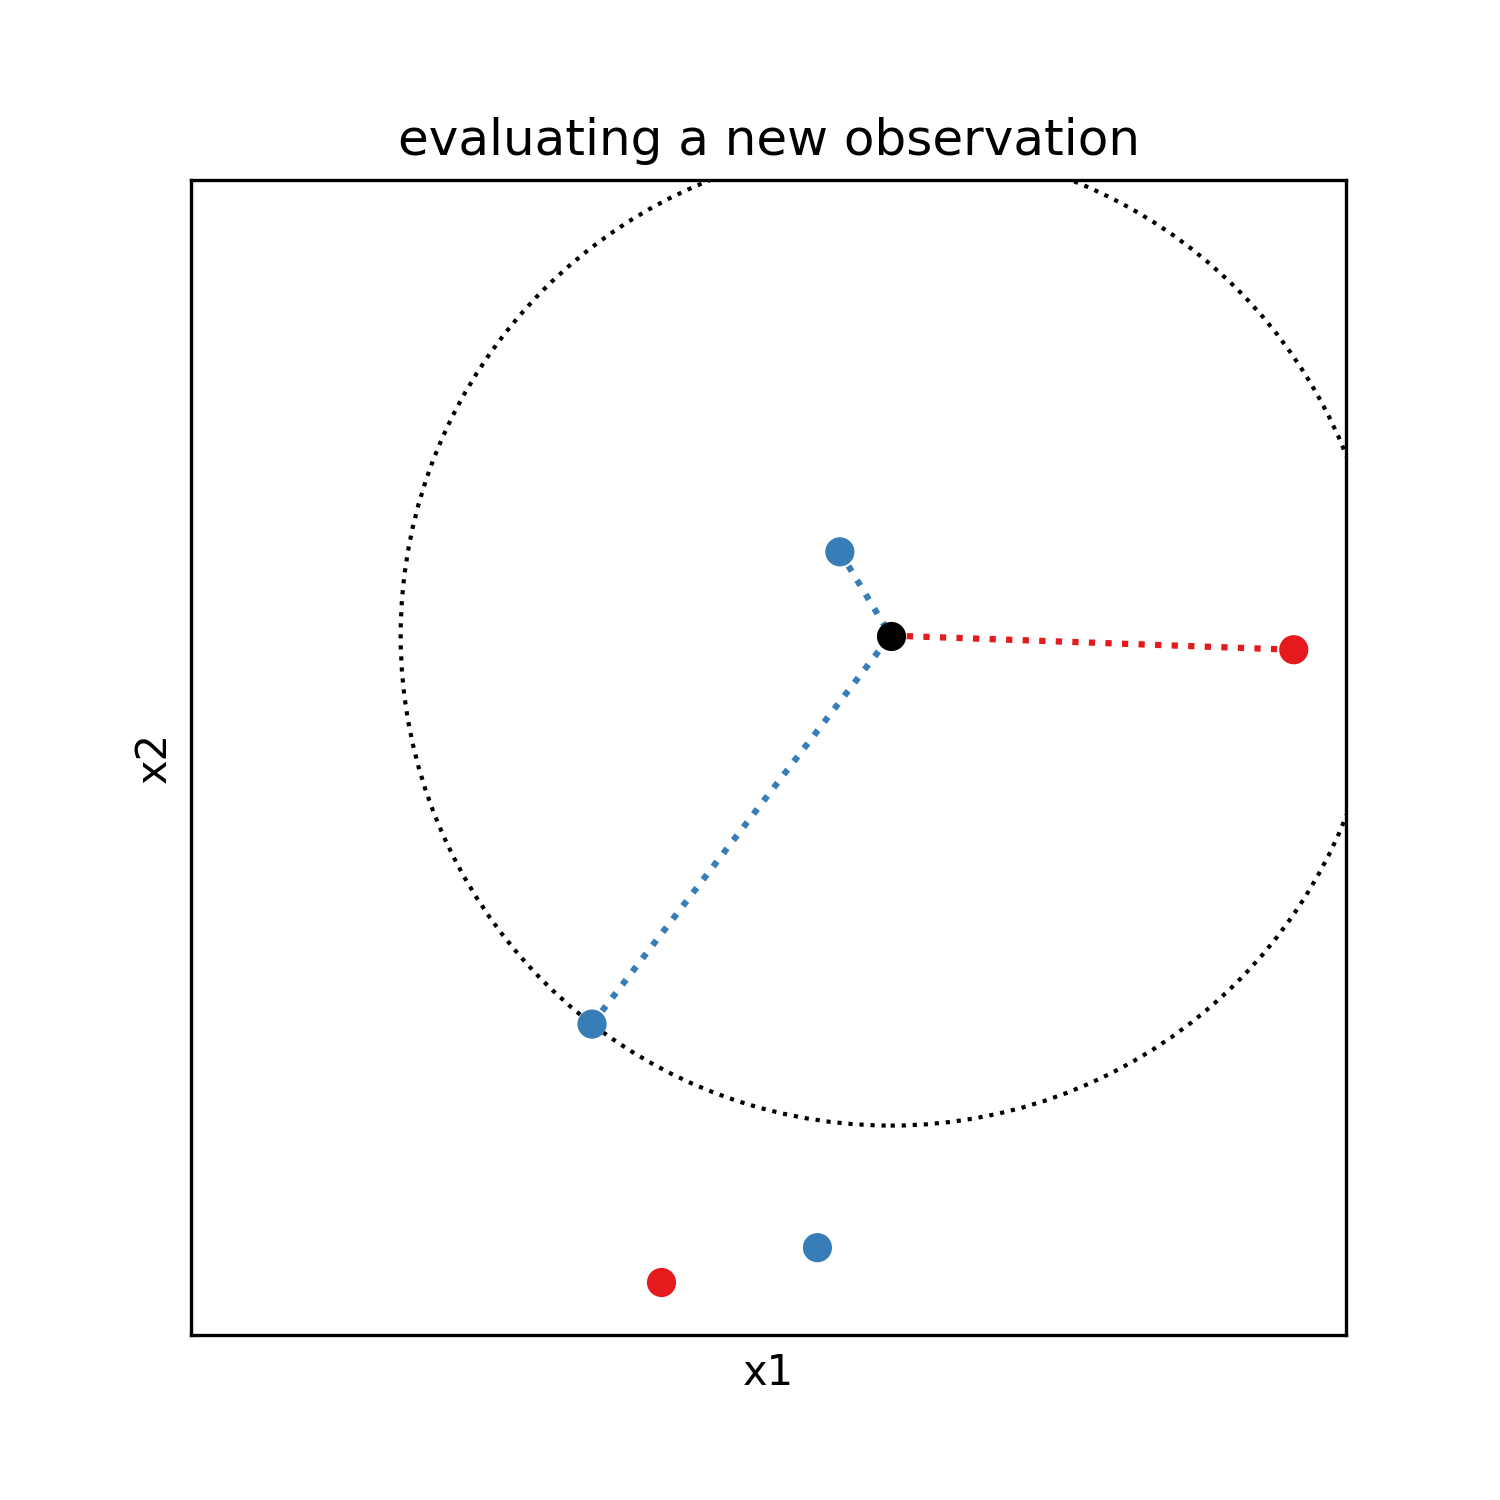
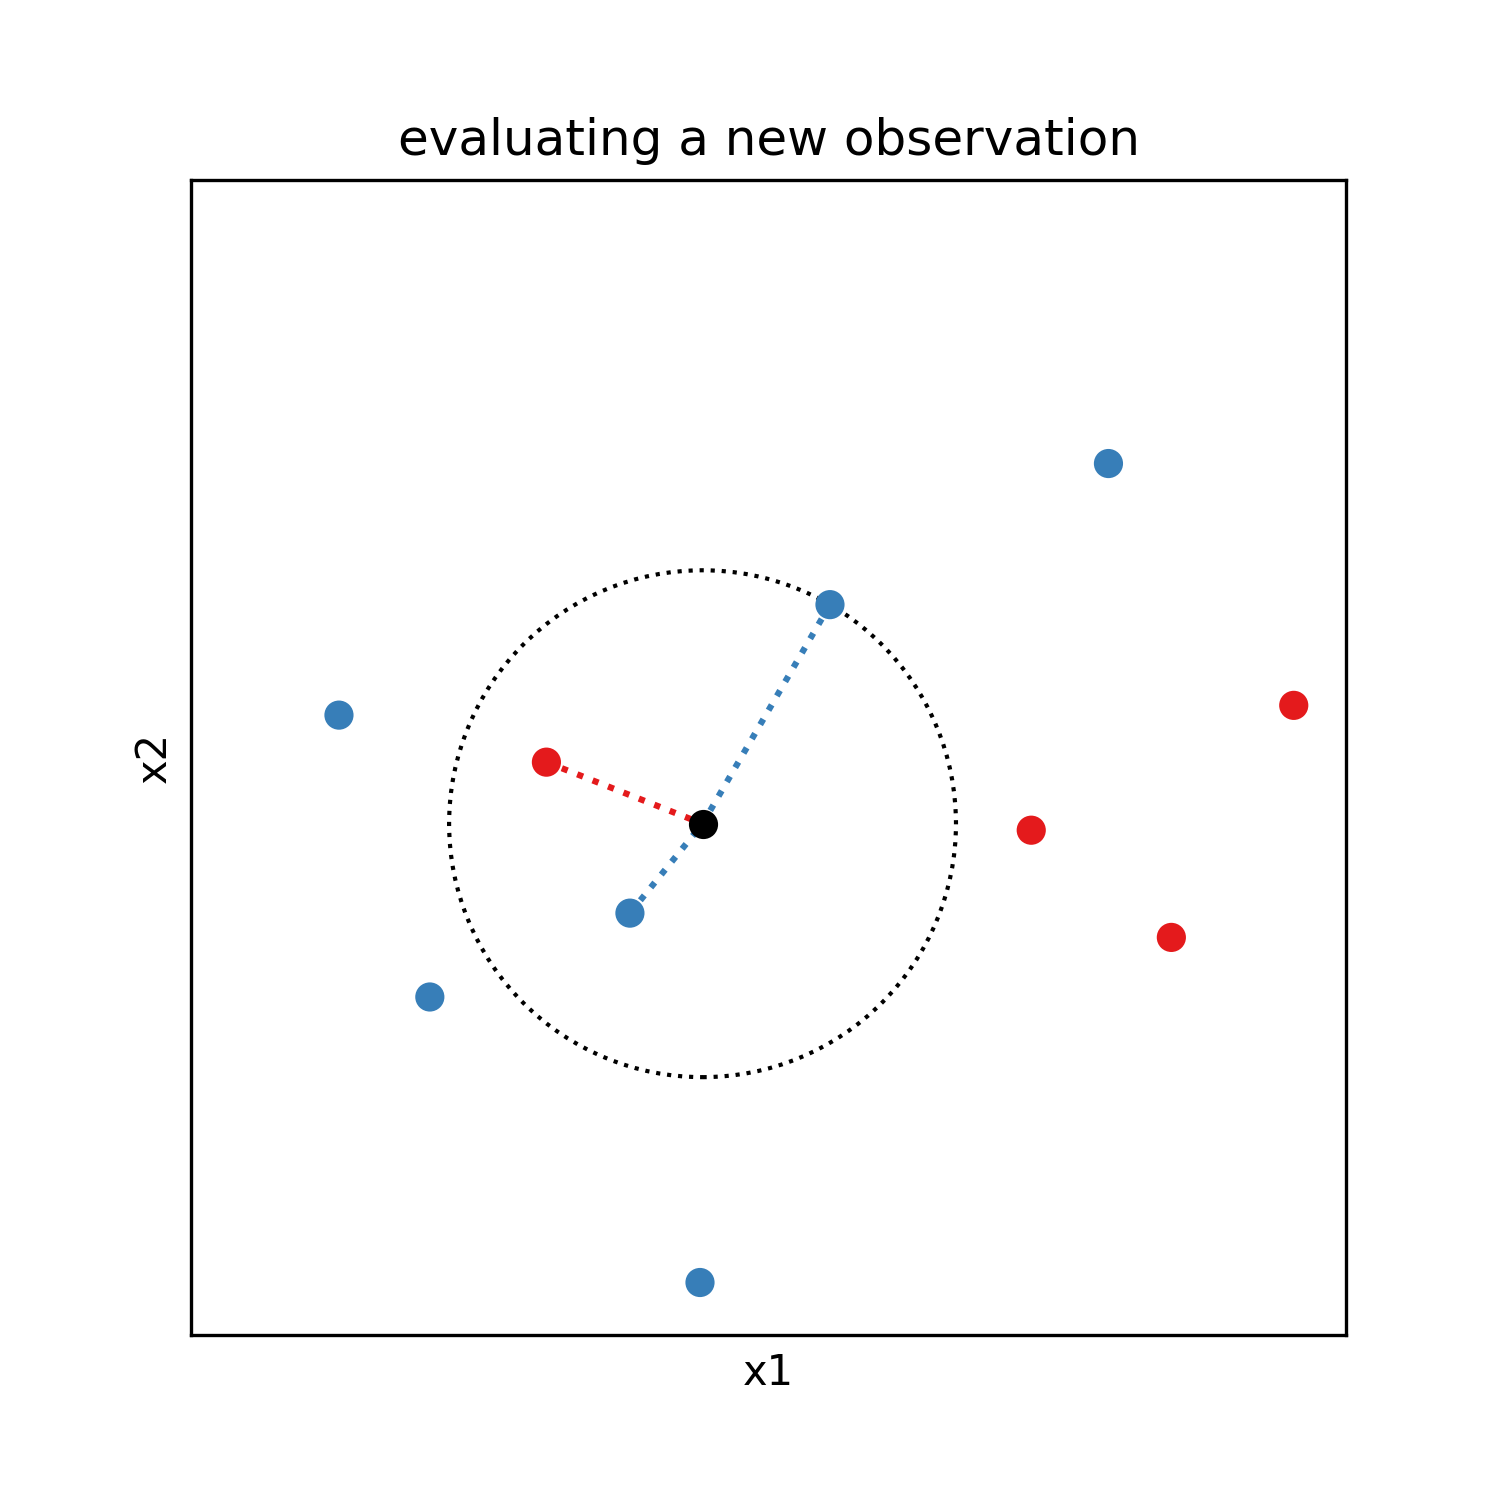
modified k nearets neighbours and draft

diff --git a/introduction_to_machine_learning/images/k_nearest_neighbours/k_nearest_neighbours.py b/introduction_to_machine_learning/images/k_nearest_neighbours/k_nearest_neighbours.py
@@ -21,7 +21,7 @@ def model(X: np.ndarray, Xobs: np.ndarray, Yobs: np.ndarray, k: int) -> np.ndarr
 # explaination
 
 k = 3
-N = 5
+N = 10
 X = np.random.normal(0., 0.3, size=(N, 2))
 X_new = np.zeros((1, 2))
 distances = np.sqrt(np.sum((X - X_new)**2, axis=1))
@@ -68,7 +68,7 @@ ax.set_zticks([])
 ax.set_xlabel("X1")
 ax.set_ylabel("X2")
 ax.set_zlabel("Y")
-ax.set_title("k nearest neighbours")
+ax.set_title("k nearest neighbours (k=5)")
 
 f.savefig(path / "k_nearest_regression.png", transparent=True, dpi=300)
 
@@ -95,8 +95,7 @@ ax.set_xticks([])
 ax.set_yticks([])
 ax.set_xlabel("X1")
 ax.set_ylabel("X2")
-ax.set_title("k nearest neighbours")
-ax.yaxis.set_label_position("right")
+ax.set_title("k nearest neighbours (k=5)")
 
 f.savefig(path / "k_nearest_classification.png", transparent=True, dpi=300)
 

diff --git a/introduction_to_machine_learning/introduction_to_machine_learning.md b/introduction_to_machine_learning/introduction_to_machine_learning.md
@@ -68,7 +68,7 @@ We start with a random parameters vector. At each step we create "childs" copies
 
 There exist a lot of variations, some more complex involving keeping the n best fit at each generation, or performing "matings" by mixing the parameter vectors of couples of individuals.
 
-This algorithm is less often used than gradient descent because it usually requires more function evaluation to obtain the same results, due to the fact that displacements are random and not guided by a "slope". However it has the adventage of handling non-diferentiable cost functions and integer parameters natively.
+This algorithm is less often used than gradient descent because it usually requires more function evaluation to obtain the same results, due to the fact that displacements are random and not guided by a "slope". However it has the advantage of handling non-diferentiable cost functions and integer parameters natively.
 
 ## Universal regressors and overfiting
 
@@ -92,13 +92,13 @@ And each classification model will be fitted on random sample from two gaussian 
 
 ### linear and polynomial regression
 
-Linear models are models of the form y = a1 \* x1 + ... + an \* xn + b. 
+Linear models are models of the form y = a1 \* x1 + ... + an \* xn + b.
 This include polynomials of any order if we set xi = x^i. Sometimes interaction terms of the form xi\*xj are also added, as well as any custom numerical feature.
-This kind of models have the adventage to have an analytical for the parameters that minimize the sum of squared errors to observations, which means training is orders of magnitude faster than other type of models. Linear models (polynomials of order one) have also the adventage to be easy to interpret.
+This kind of models have the advantage to have an analytical solution for the parameters that minimize the sum of squared errors to observations, which means training is orders of magnitude faster than other type of models. Linear models (polynomials of order one) also have the advantage to be simple enough that its parameters can be interpreted. Althought this is always dangerous with correlated inputs as the values of the optimum parameters can be extremly sensitive to noise. For example an increased weight can be compensated by a reduced weight from another highly correlated variable.
 
 ![linear and polynomials models](images/linear_regression/linear_regression.png)
 
-Polynomials are in theory universal regressors: Any set of observations (y, x1, ..., xn) admits a multivariate Lagrange interpolation polynomial that goes through all observations without any error. In practice they generalize poorly to new data, especially with high polynomial orders. And as illustrated below its expressive power scales poorly with polynomial order. Even for a simple 1D function such has the absolute value.
+Polynomials are in theory universal regressors (see Lagrange polynomial interpolation). In practice they generalize poorly to new data, especially with high polynomial orders. And as illustrated below its expressive power scales poorly with polynomial order. Even for a simple 1D function such has the absolute value. For this reason this kind of models are usualy restricted to linear models or low order polynomials. They are used alone to describe low complexity functions, as piecewise linear function or piecewise polynomials for more complex functions (for example NASA polynomials fitted to describe thermodynamic parameters).
 
 ![poor fitting with polynomial](images/gif_v_shape_linear_regression/v_shape.gif)
 
@@ -106,10 +106,18 @@ The fitting of our test function gives the following result:
 
 ![polynomial regression](images/polynomial_fit/polynomial_regression.png)
 
-For this reason this kind of models are mostly restricted to linear models or low order polynomials.
-
 ### k nearest neighbours
+
+The k nearest neighbours model was invented in 1951 by Joseph Hodges. It is an interpolation method from labeled observations rather than a parametric model. The Y value of a new observation is given by the average (sometime weighted by inverse distance) of the Y of the k closest labeled observations.
+
+![knn evaluation](images/k_nearest_neighbours/k_nearest_evaluation.png)
+
+This model has the advantage of beeing easy to interpret, as for a new observation it identifies similar points already labeled. It can be used for regression as well as classification and requires no training.
+The evaluation on test data gives the following results:
 
 ![knn regression](images/k_nearest_neighbours/k_nearest_regression.png)
 
 ![knn classification](images/k_nearest_neighbours/k_nearest_classification.png)
+
+
+### decision tree
